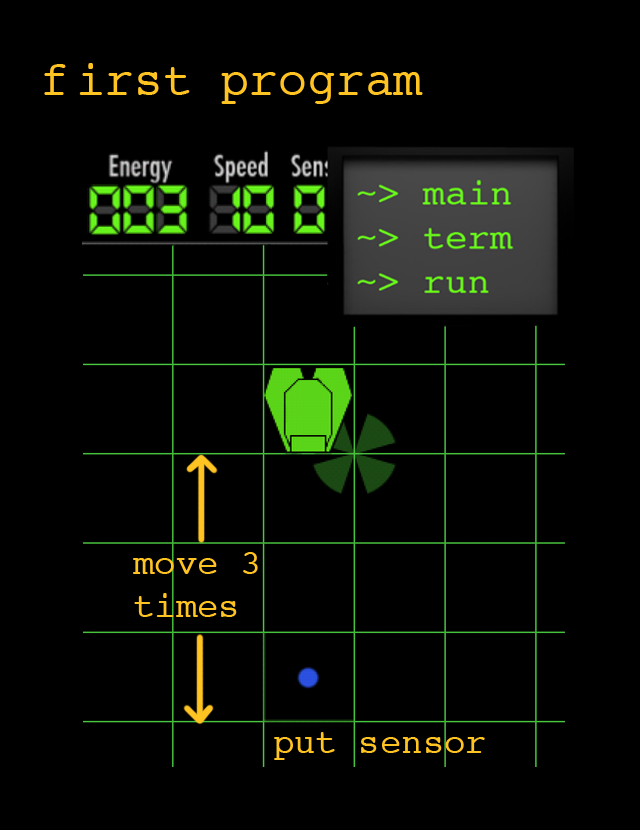
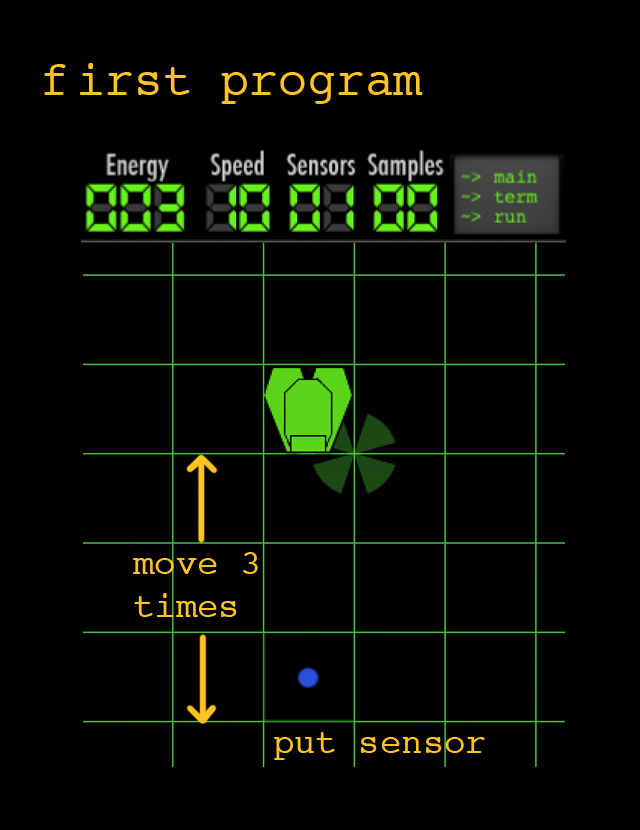
first draft of getting started tutorial.

Changed region(s): [[0.125, 0.1807, 0.875, 0.3916], [0.2812, 0.753, 0.3438, 0.8735]]

diff --git a/Classes/Views/TutorialSectionViewController.m b/Classes/Views/TutorialSectionViewController.m
@@ -101,14 +101,18 @@
 - (void)touchesBegan:(NSSet*)touches withEvent:(UIEvent*)event {
     UITouch* touch = [touches anyObject];
     NSInteger touchTag = touch.view.tag;
+    self.nextView.hidden = NO;
     switch (touchTag) {
         case kTUTORIAL_SECTION_LAUNCHER_BACK_TAG:
             if (self.selectedTutorial == 1) {
                 [self.view removeFromSuperview];
+            } else if (self.selectedTutorial == 0) { 
+                self.selectedTutorial = [self.tutorialList count] - 2;
+                [self loadTutorial];
             } else {
-                self.selectedTutorial--;
+                self.selectedTutorial -= 2;
+                [self loadTutorial];
             }
-            [self loadTutorial];
             break;
         case kTUTORIAL_SECTION_LAUNCHER_EXIT_TAG:
             [self.view removeFromSuperview];

diff --git a/Classes/Views/TutorialIndexViewController.m b/Classes/Views/TutorialIndexViewController.m
@@ -157,7 +157,9 @@
     ViewControllerManager * viewMgr = [ViewControllerManager instance];
     switch (indexPath.row) {
         case 0:
-            [viewMgr showTutorialSectionView:self.view withImages:[NSArray arrayWithObjects:@"get-started.png", @"game-objects.png", nil]];
+            [viewMgr showTutorialSectionView:self.view withImages:[NSArray arrayWithObjects:@"get-started.png",
+                                                                   @"game-objects.png", @"status-display.png", @"program-game-board.png",
+                                                                   @"open-terminal-game-board.png", @"write-program.png", @"completed-program.png", nil]];
             break;
         case 1:
             break;
